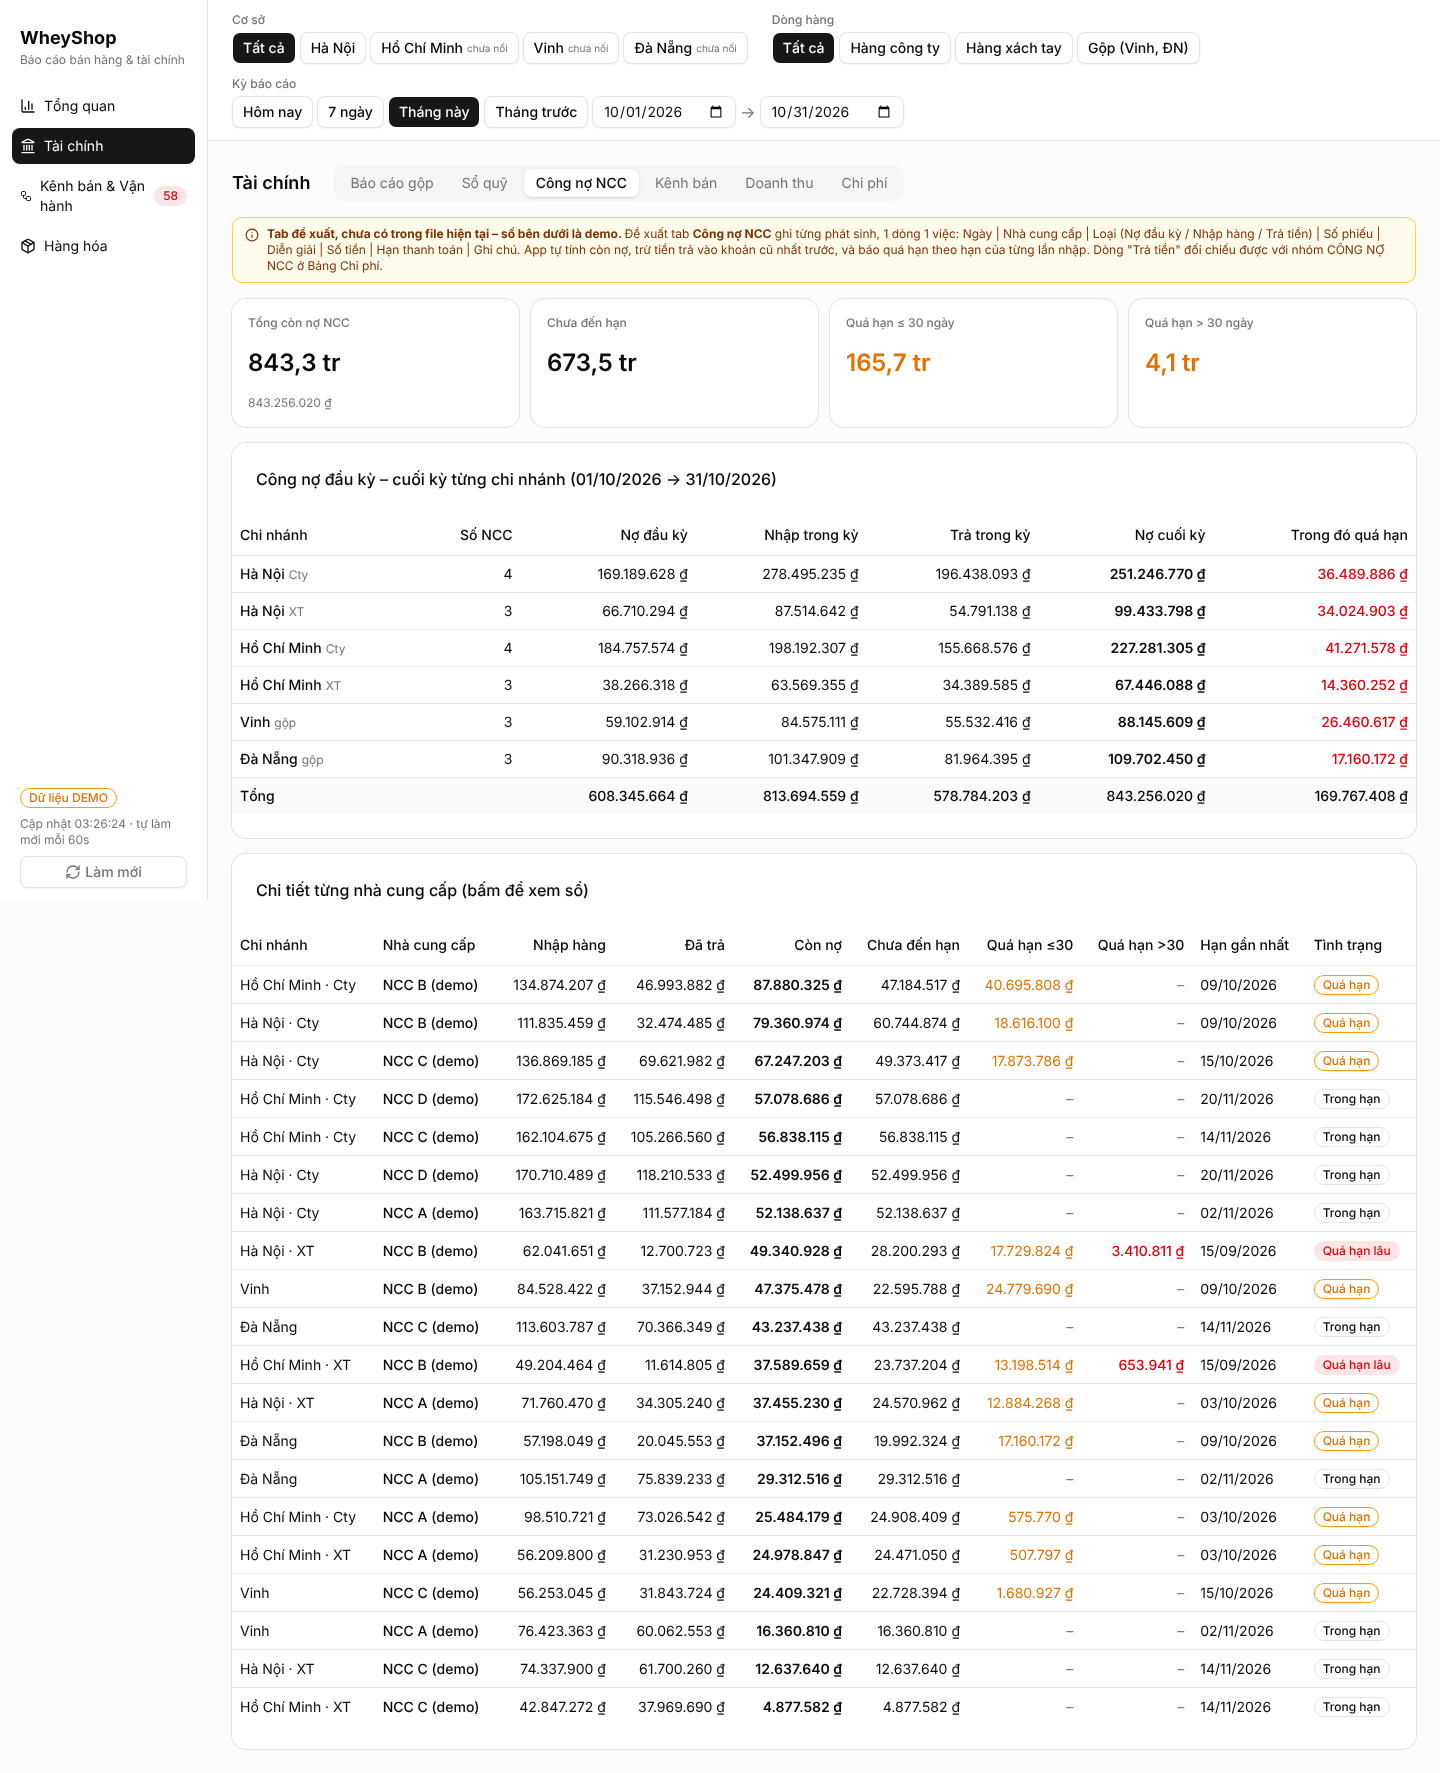
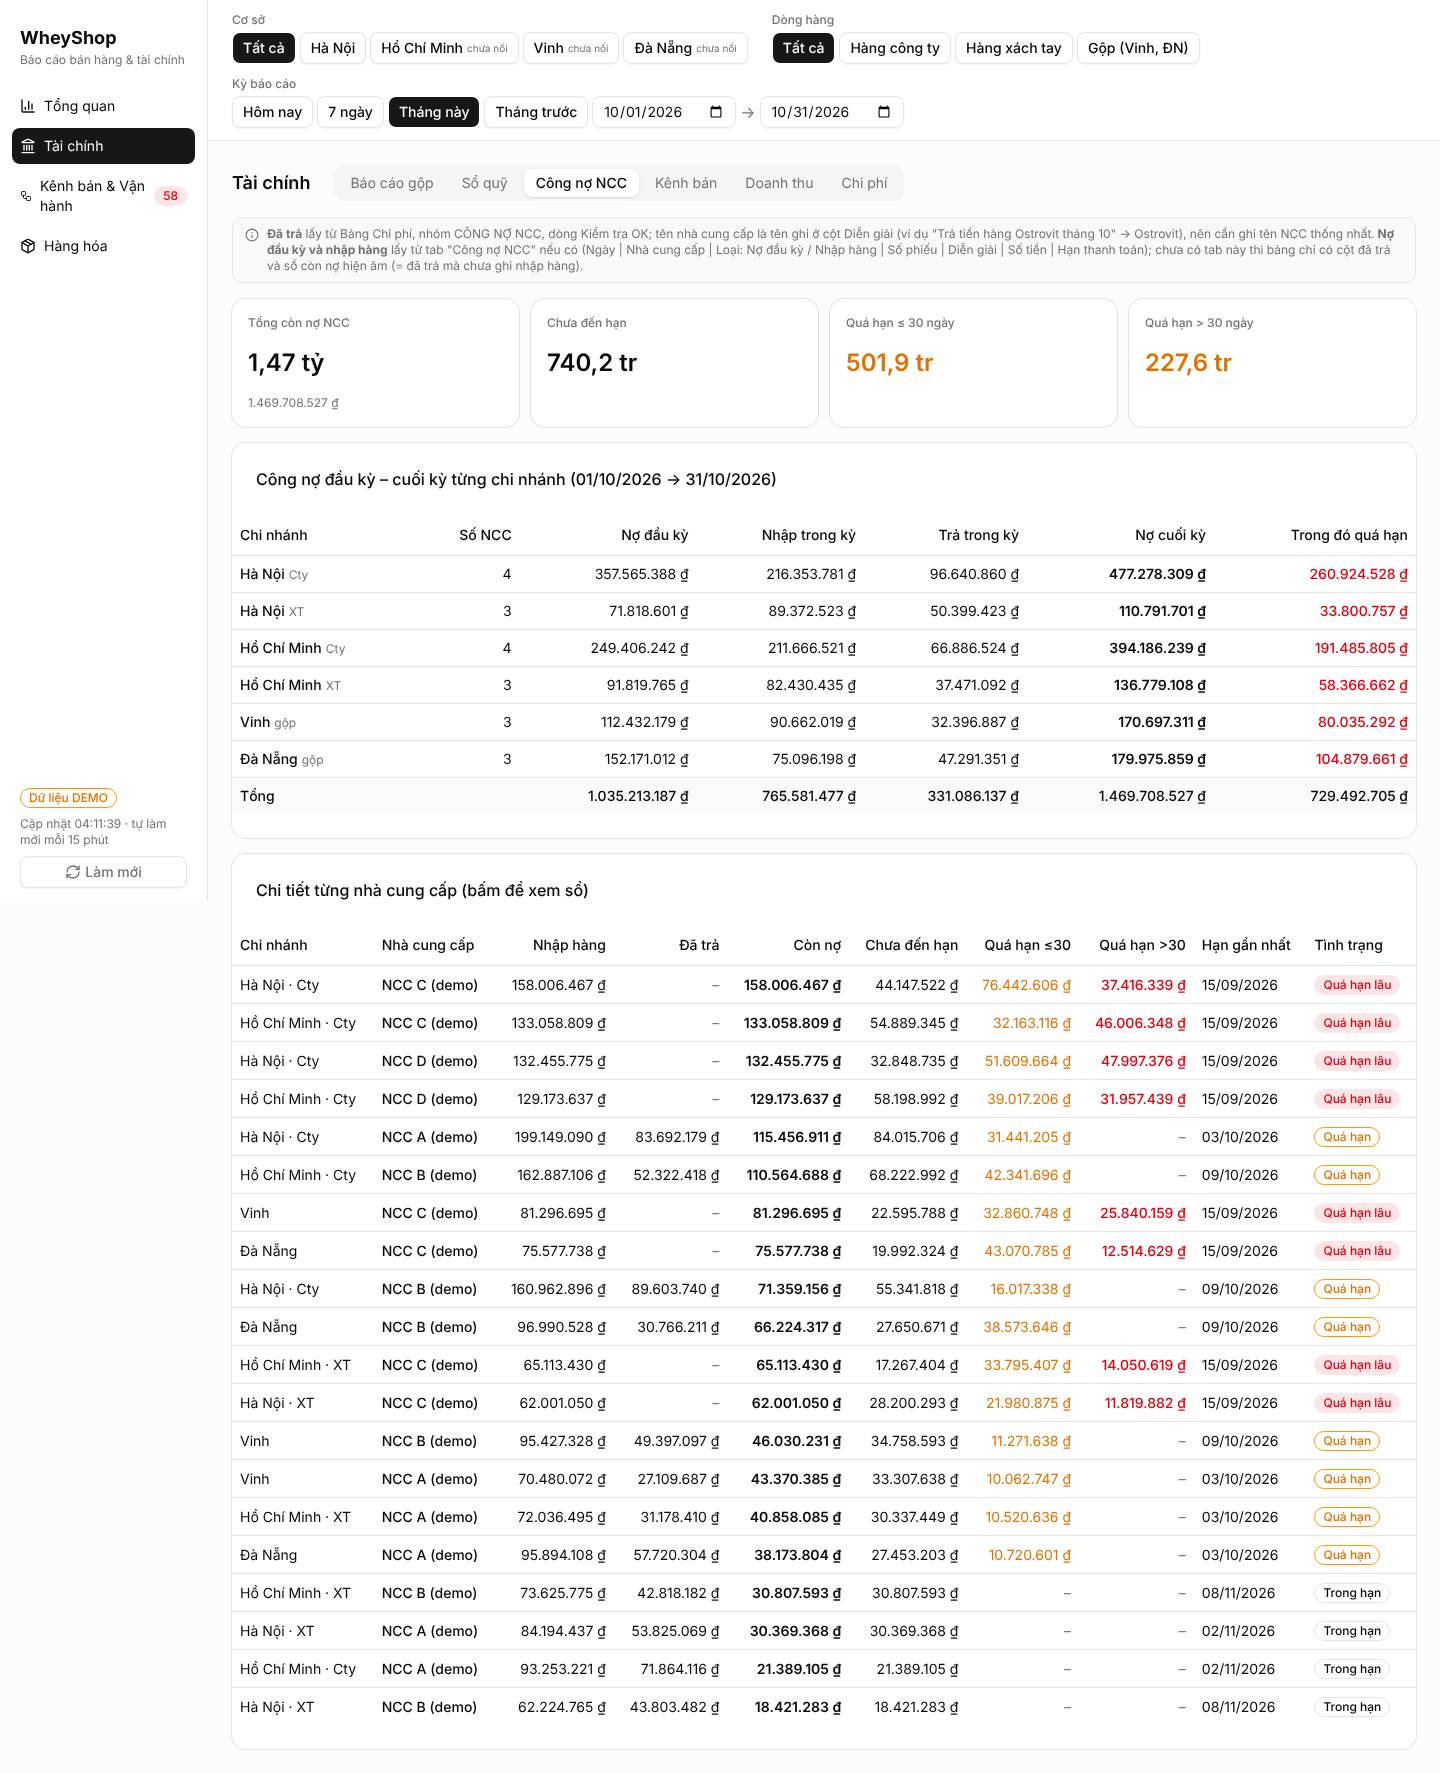
Read supplier payments from Bảng Chi phí (group CÔNG NỢ NCC)
- payments to suppliers come from the expense sheet; the supplier name is
  taken from the description; the Công nợ NCC tab only supplies opening
  balances and purchases, so nothing is counted twice
- overpayments show as a negative balance instead of being clamped

Claude-Session: https://claude.ai/code/session_01CPAdPgRTgpnrWRijajVdqp

diff --git a/ops/model/parseWorkbook.test.ts b/ops/model/parseWorkbook.test.ts
@@ -22,7 +22,7 @@ import {
   pendingMoney,
 } from "./finance";
 import { periodOf } from "./period";
-import { supplierBalances } from "./supplierLedger";
+import { supplierBalances, supplierFromDescription } from "./supplierLedger";
 import {
   branchUnits,
   financialStatement,
@@ -583,6 +583,51 @@ describe("Sổ quỹ, Tồn kho and Công nợ tabs", () => {
           ],
           ["20/10/2026", "NCC A", "Sai loại", "", "", "1.000", "", ""],
         ],
+        "Bảng Chi phí": [
+          ["BẢNG CHI PHÍ"],
+          [
+            "Ngày",
+            "Loại",
+            "Nhóm",
+            "Diễn giải",
+            "Số tiền",
+            "Quỹ",
+            "Quỹ nhận",
+            "Kiểm tra",
+            "Người chi",
+            "Chứng từ",
+            "Ghi chú",
+            "Mã CT",
+          ],
+          [
+            "20/10/2026",
+            "Chi",
+            "CÔNG NỢ NCC",
+            "Trả tiền hàng NCC A tháng 10",
+            "8.000.000",
+            "BIDV",
+            "",
+            "OK",
+            "KT",
+            "",
+            "",
+            "CP-0009",
+          ],
+          [
+            "21/10/2026",
+            "Chi",
+            "CÔNG NỢ NCC",
+            "Thanh toán NCC B",
+            "1.000.000",
+            "BIDV",
+            "",
+            "Thiếu Quỹ",
+            "KT",
+            "",
+            "",
+            "CP-0010",
+          ],
+        ],
       }),
     );
 
@@ -593,11 +638,25 @@ describe("Sổ quỹ, Tồn kho and Công nợ tabs", () => {
       minimum: 5,
       updatedAt: "2026-10-31",
     });
-    expect(supplierLedger.map((e) => [e.kind, e.amount])).toEqual([
-      ["opening", 10_000_000],
-      ["purchase", 5_000_000],
-      ["payment", 8_000_000],
+    // Payments come from Bảng Chi phí only (the tab's "Trả tiền" row is ignored).
+    expect(supplierLedger.map((e) => [e.kind, e.supplier, e.amount])).toEqual([
+      ["opening", "NCC A", 10_000_000],
+      ["purchase", "NCC A", 5_000_000],
+      ["payment", "NCC A", 8_000_000],
     ]);
+  });
+});
+
+describe("supplier name from Bảng Chi phí description", () => {
+  it("strips payment verbs and trailing period words", () => {
+    expect(supplierFromDescription("Trả tiền hàng NCC A tháng 10")).toBe(
+      "NCC A",
+    );
+    expect(supplierFromDescription("Thanh toán Ostrovit đợt 2")).toBe(
+      "Ostrovit",
+    );
+    expect(supplierFromDescription("CK Labrada 15/10")).toBe("Labrada");
+    expect(supplierFromDescription("")).toBe("(không ghi tên NCC)");
   });
 });
 

diff --git a/ops/model/supplierLedger.ts b/ops/model/supplierLedger.ts
@@ -1,7 +1,7 @@
 // Supplier ledger ("Công nợ NCC" tab): one line per event (opening balance,
 // purchase, payment). Balances, ageing and overdue amounts are computed here.
 import { parseAmount, parseDate, readTable } from "./sheet";
-import type { BranchCode, GoodsLine, WorkbookSource } from "./types";
+import type { BranchCode, CashEntry, GoodsLine, WorkbookSource } from "./types";
 
 export type LedgerKind = "opening" | "purchase" | "payment";
 
@@ -59,6 +59,46 @@ export const parseSupplierLedger = (
     ];
   });
 };
+
+const PAYMENT_GROUP = "CÔNG NỢ NCC";
+const LEADING_WORDS =
+  /^(trả|thanh toán|tt|ck|chuyển khoản|tiền hàng|công nợ|nợ|cho)\s+/i;
+
+/** "Trả tiền hàng NCC Ostrovit tháng 10" -> "Ostrovit tháng 10" is too long; keep the leading name part up to a date/number. */
+export const supplierFromDescription = (description: string): string => {
+  let text = description.trim();
+  for (let i = 0; i < 4; i++) text = text.replace(LEADING_WORDS, "");
+  text = text.split(/\s+(tháng|t\d|đợt|lần|\d{1,2}\/\d{1,2})\b/i)[0];
+  return text.replace(/[-–:,.]+$/, "").trim() || "(không ghi tên NCC)";
+};
+
+/**
+ * Payments to suppliers come from Bảng Chi phí (group CÔNG NỢ NCC, check OK):
+ * the supplier is the name written in Diễn giải. Opening balances and purchases
+ * come from the Công nợ NCC tab when it exists; "Trả tiền" rows there are ignored
+ * so payments are never counted twice.
+ */
+export const ledgerFromCashEntries = (entries: CashEntry[]): SupplierEntry[] =>
+  entries
+    .filter(
+      (e) =>
+        e.kind === "Chi" &&
+        e.group === PAYMENT_GROUP &&
+        e.check.startsWith("OK"),
+    )
+    .map((e) => ({
+      key: `${e.key}-ncc`,
+      branch: e.branch,
+      line: e.line,
+      date: e.date,
+      supplier: supplierFromDescription(e.description),
+      kind: "payment" as const,
+      ref: e.voucher,
+      description: e.description,
+      amount: e.amount,
+      dueDate: "",
+      note: "Bảng Chi phí",
+    }));
 
 export type SupplierBalance = {
   supplier: string;
@@ -126,7 +166,8 @@ export const supplierBalances = (
           .filter((e) => e.kind === "purchase")
           .reduce((t, e) => t + e.amount, 0),
         paid,
-        balance: open.reduce((t, d) => t + d.left, 0),
+        // Overpayments show as a negative balance (the supplier owes us).
+        balance: debts.reduce((t, d) => t + d.amount, 0) - paid,
         notDue: bucket((d) => age(d) <= 0),
         overdue30: bucket((d) => age(d) > 0 && age(d) <= 30),
         overdue90: bucket((d) => age(d) > 30),

diff --git a/ops/model/parseWorkbook.ts b/ops/model/parseWorkbook.ts
@@ -4,7 +4,7 @@ import {
   parseFundSummaries,
   parseInventory,
 } from "./parseExtras";
-import { parseSupplierLedger } from "./supplierLedger";
+import { ledgerFromCashEntries, parseSupplierLedger } from "./supplierLedger";
 import { parseAmount, parseDate, readTable, type Table } from "./sheet";
 import type {
   CashEntry,
@@ -242,6 +242,7 @@ export const parseWorkbook = (source: WorkbookSource): Dataset => {
     ["store", TAB_PREFIX.store],
     ["local", TAB_PREFIX.local],
   ];
+  const cashEntries = parseCashEntries(source, table(TAB_PREFIX.expenses));
   return {
     orders: [
       ...channels.flatMap(([channel, prefix]) =>
@@ -253,7 +254,7 @@ export const parseWorkbook = (source: WorkbookSource): Dataset => {
       ...parsePlatformOrders(source, "tiktok", table(TAB_PREFIX.tiktok)),
       ...parsePlatformOrders(source, "shopee", table(TAB_PREFIX.shopee)),
     ],
-    cashEntries: parseCashEntries(source, table(TAB_PREFIX.expenses)),
+    cashEntries,
     pendingCards: parsePendingCards(
       source,
       findTab(source, TAB_PREFIX.pendingCards),
@@ -264,10 +265,13 @@ export const parseWorkbook = (source: WorkbookSource): Dataset => {
       findTab(source, TAB_PREFIX.cashbook),
     ),
     inventory: parseInventory(source, findTab(source, TAB_PREFIX.inventory)),
-    supplierLedger: parseSupplierLedger(
-      source,
-      findTab(source, TAB_PREFIX.supplierDebts),
-    ),
+    supplierLedger: [
+      ...parseSupplierLedger(
+        source,
+        findTab(source, TAB_PREFIX.supplierDebts),
+      ).filter((e) => e.kind !== "payment"),
+      ...ledgerFromCashEntries(cashEntries),
+    ],
     catalog: parseCatalog(findCatalogTab(source)),
   };
 };

diff --git a/ops/pages/finance/DebtsPage.tsx b/ops/pages/finance/DebtsPage.tsx
@@ -167,13 +167,14 @@ export const DebtsPage = () => {
 
   return (
     <div className="space-y-4">
-      <SourceNote proposed>
-        Đề xuất tab <strong>Công nợ NCC</strong> ghi từng phát sinh, 1 dòng 1
-        việc: Ngày | Nhà cung cấp | Loại (Nợ đầu kỳ / Nhập hàng / Trả tiền) | Số
-        phiếu | Diễn giải | Số tiền | Hạn thanh toán | Ghi chú. App tự tính còn
-        nợ, trừ tiền trả vào khoản cũ nhất trước, và báo quá hạn theo hạn của
-        từng lần nhập. Dòng "Trả tiền" đối chiếu được với nhóm CÔNG NỢ NCC ở
-        Bảng Chi phí.
+      <SourceNote>
+        <strong>Đã trả</strong> lấy từ Bảng Chi phí, nhóm CÔNG NỢ NCC, dòng Kiểm
+        tra OK; tên nhà cung cấp là tên ghi ở cột Diễn giải (ví dụ "Trả tiền
+        hàng Ostrovit tháng 10" → Ostrovit), nên cần ghi tên NCC thống nhất.
+        <strong> Nợ đầu kỳ và nhập hàng</strong> lấy từ tab "Công nợ NCC" nếu có
+        (Ngày | Nhà cung cấp | Loại: Nợ đầu kỳ / Nhập hàng | Số phiếu | Diễn
+        giải | Số tiền | Hạn thanh toán); chưa có tab này thì bảng chỉ có cột đã
+        trả và số còn nợ hiện âm (= đã trả mà chưa ghi nhập hàng).
       </SourceNote>
       <div className="grid grid-cols-2 gap-3 md:grid-cols-4">
         <Kpi

diff --git a/ops/data/demoWorkbooks.ts b/ops/data/demoWorkbooks.ts
@@ -613,7 +613,7 @@ const buildWorkbook = ({
         date,
         "Chi",
         "CÔNG NỢ NCC",
-        `Trả ${pick(SUPPLIERS)} (demo)`,
+        `Trả tiền hàng ${SUPPLIERS[day.getDate() === 5 ? 0 : 1]}`,
         vnAmount(amount),
         bankName,
         "",
@@ -679,19 +679,6 @@ const buildWorkbook = ({
         vnDate(format(addDays(parseISO(purchaseDay), 30), "yyyy-MM-dd")),
         "",
       ]);
-      const payDay = `2026-${String(month).padStart(2, "0")}-${month === 10 && i >= 2 ? "28" : "20"}`;
-      if (!(month === 10 && i === 1)) {
-        ledger.push([
-          vnDate(payDay),
-          supplier,
-          "Trả tiền",
-          `CP-${month}${i}`,
-          "Chuyển khoản trả NCC (demo)",
-          vnAmount(Math.round(amount * (0.6 + random() * 0.5))),
-          "",
-          "",
-        ]);
-      }
     }
   });
   const catalogRows = catalog.map(([code, name, , cost, aliases]) => [
